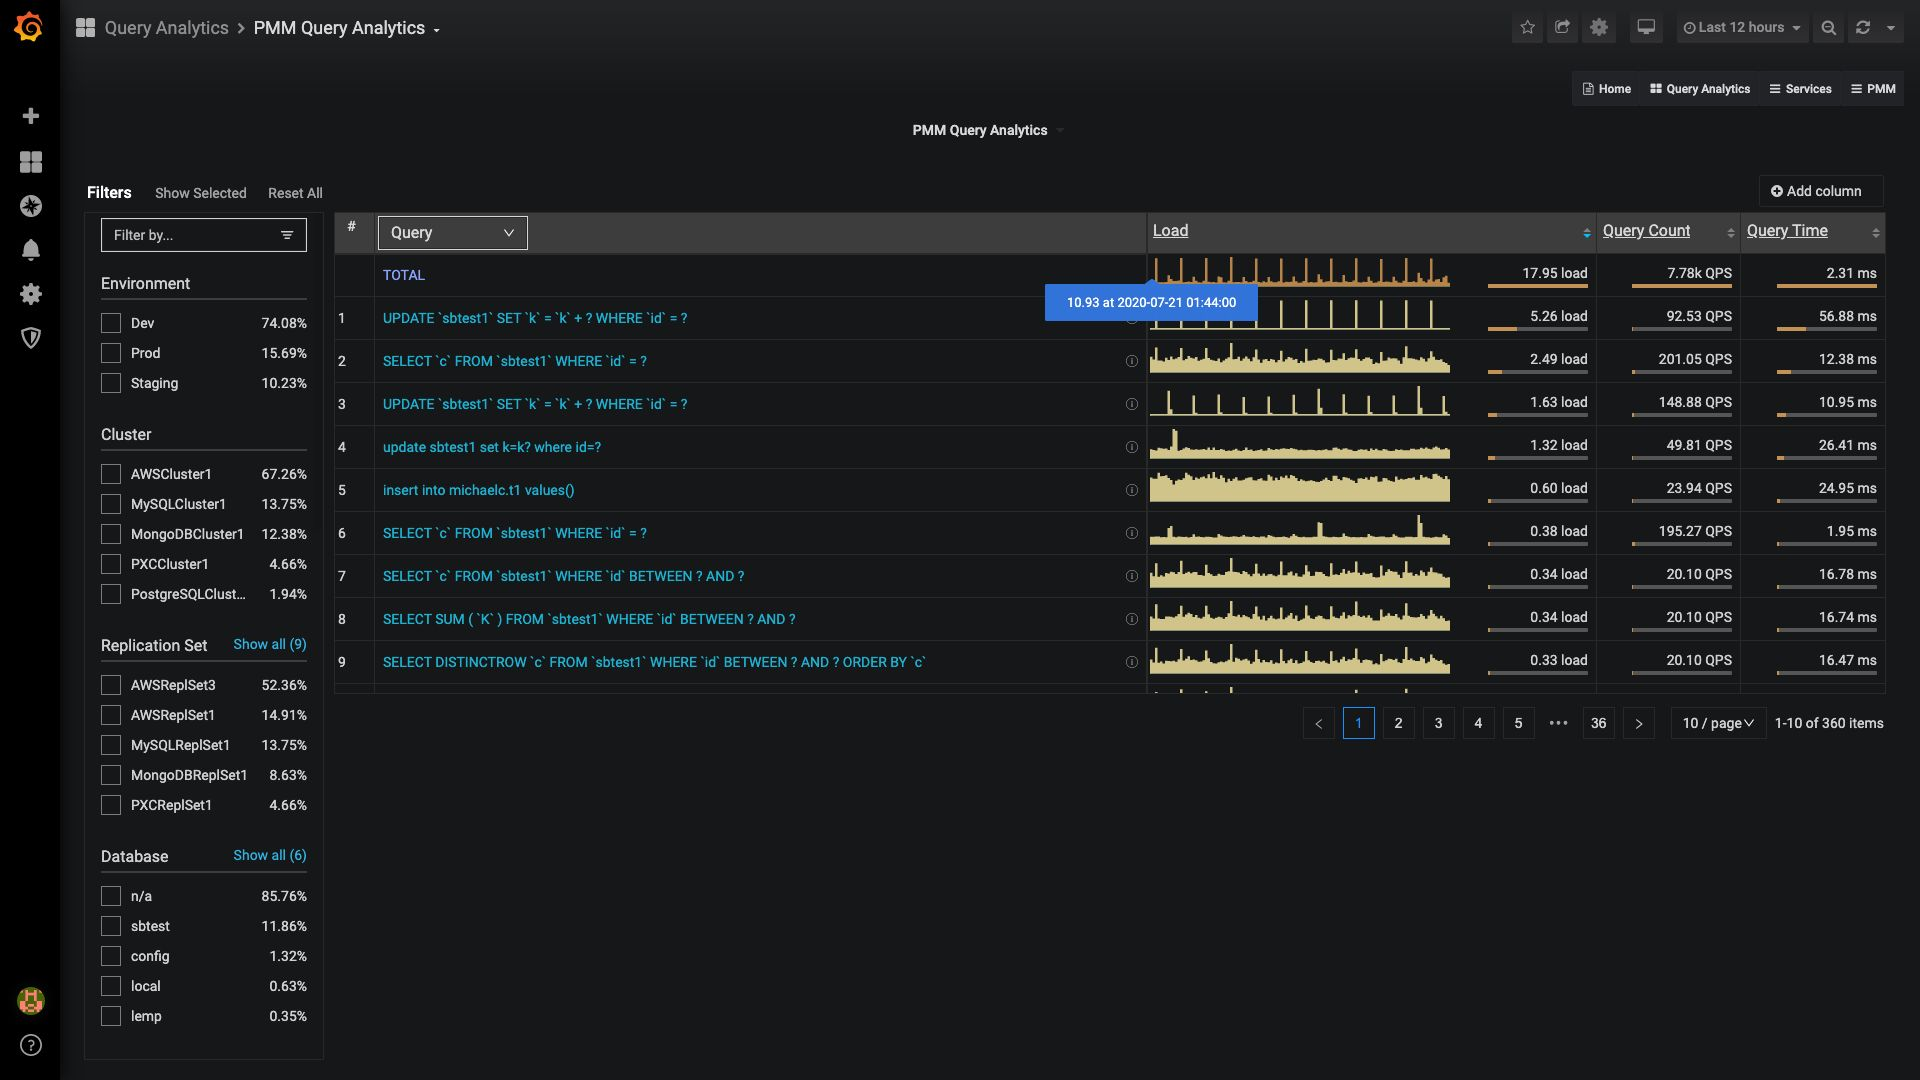
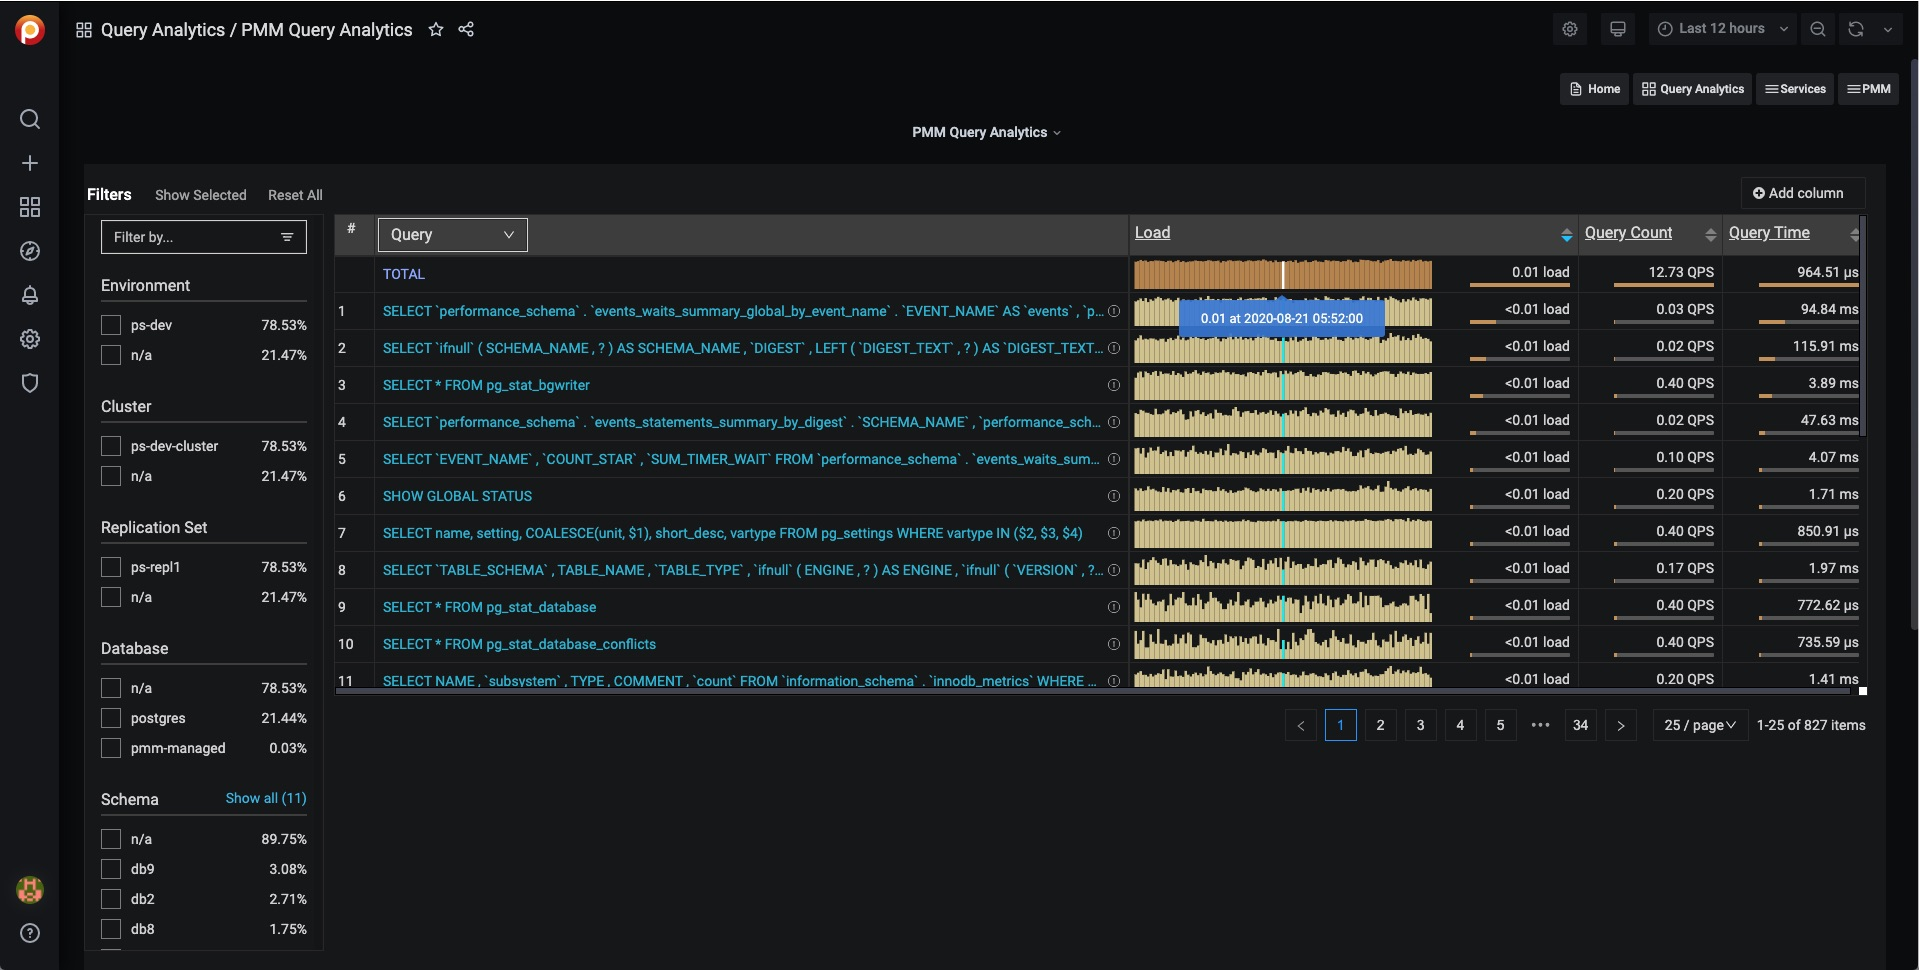
PMM-6328 New images and description for sparkline

Changed region(s): [[0.0, 0.0, 1.0, 1.0], [0.4612, 0.0928, 0.5534, 0.1546]]

diff --git a/docs/qan-intro.md b/docs/qan-intro.md
@@ -73,7 +73,7 @@ At the top of the second column is the *dimension* menu. Use this to choose the 
 
 * For the *Query* dimension, hovering over the information icon reveals the query ID and its example.
 * Hovering on a column header reveals an informative tool-tip for that column.
-* Hovering on the main metric sparkline shows the data value under the cursor.
+* Hovering on the main metric sparkline highlights the data point and a tooltip shows the data value under the cursor.
 
 ![image](_images/PMM_Query_Analytics_Main_Metric_Sparkline.jpg)
 

diff --git a/source/qan-intro.rst b/source/qan-intro.rst
@@ -97,7 +97,7 @@ At the top of the second column is the *dimension* menu. Use this to choose the 
 
 - Hovering on a column header reveals an informative tool-tip for that column.
 
-- Hovering on the main metric sparkline shows the data value under the cursor.
+- Hovering on the main metric sparkline highlights the data point and a tooltip shows the data value under the cursor.
 
   .. image:: /_images/PMM_Query_Analytics_Main_Metric_Sparkline.jpg
 
